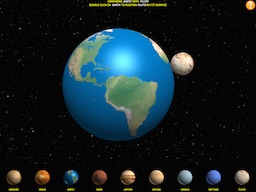
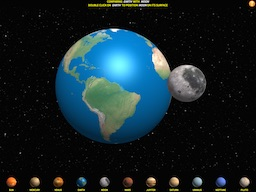
Update web site to reflect addition of sun and moon to app a few days ago.

diff --git a/index.html b/index.html
@@ -29,7 +29,7 @@
                             <img src="thumbs/planet_compare.jpeg" />
                         </a>
                         <h3>Planet Compare</h3>
-                        <p>Experiment to compare the relative sizes of planets in our solar system, including of course the new darling, Pluto.</p>
+                        <p>Experiment to compare the relative sizes of planets in our solar system, including of course the new darling, Pluto. <i>Updated to support the Sun and the Moon.</i></p>
                         <a href="https://github.com/callumprentice/callumprentice.github.io/tree/master/apps/planet_compare" target="_blank"><img class="srcicon" src="img/githubsrc.png"></a>
                     </li>
 
